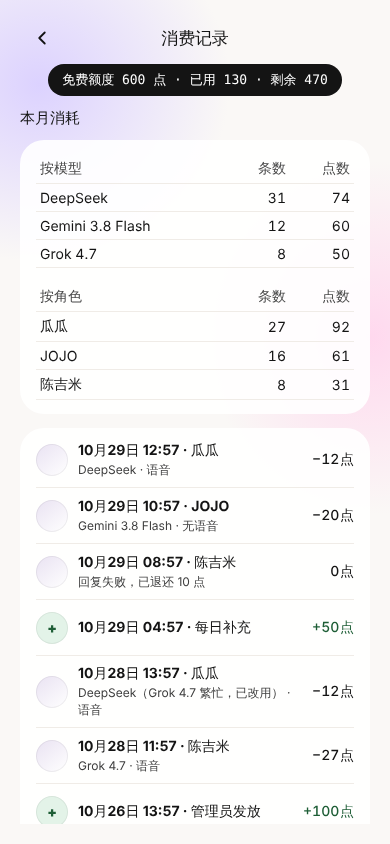
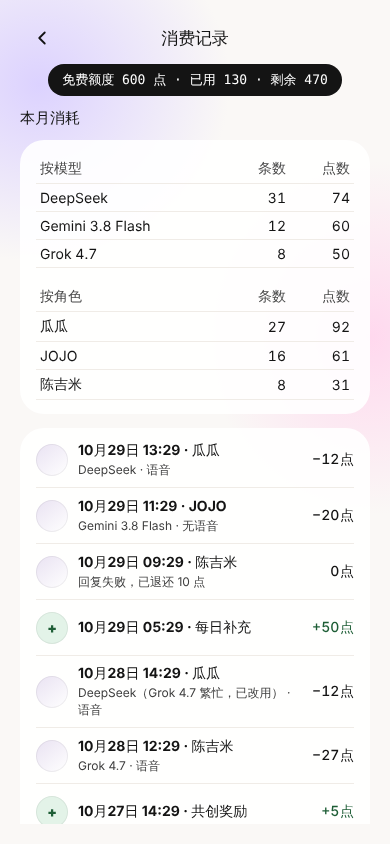
Part 25b fix: review screenshots after the 24c merge
Claude-Session: https://claude.ai/code/session_01Y7wsRjypAj1HJvvcZyGZZa

diff --git a/review/part-25b/tools/capture.ts b/review/part-25b/tools/capture.ts
@@ -278,8 +278,15 @@ if (only === 'billing' || only === 'guide') {
     await page.reload();
     await page.locator('.card-slot.is-active').waitFor();
     await page.waitForTimeout(900);
+    await page.route('**/cocreation/rewards', (route: any) => route.fulfill({ json: { notePoints: 5, dailyCap: 15, adoptPoints: 20 } }));
     await page.getByRole('button', { name: /阿泡/ }).first().click();
-    await page.waitForTimeout(700);
+    await page.waitForTimeout(900);
+    await page.screenshot({ path: join(out, `myinfo-earn-${scheme}-${w}.png`) });
+    await page.getByRole('button', { name: '获得点数' }).click();
+    await page.waitForTimeout(900);
+    await page.screenshot({ path: join(out, `earn-sheet-${scheme}-${w}.png`) });
+    await page.locator('.earn-sheet .acct-close').click();
+    await page.waitForTimeout(400);
     await page.getByRole('button', { name: '消费记录' }).click();
     await page.waitForSelector('.bl-row');
     await page.waitForTimeout(1000);

diff --git a/review/part-25b/tools/billing-data.ts b/review/part-25b/tools/billing-data.ts
@@ -26,6 +26,8 @@ export function billingFixture(now = Date.now()): BillingPage {
       { kind: 'daily_refill', at: now - 9 * H, points: 50 },
       { kind: 'reply', at: now - 1 * D, characterId: 'wei-guagua', model: 'deepseek', backupFor: 'xai', voice: true, points: 12, free: false },
       { kind: 'reply', at: now - 1 * D - 2 * H, characterId: 'chen-jimi', model: 'xai', voice: true, points: 27, free: false },
+      { kind: 'cocreation_note', at: now - 2 * D, points: 5 },
+      { kind: 'cocreation_adopted', at: now - 2 * D - H, points: 20 },
       { kind: 'grant', at: now - 3 * D, points: 100 },
       { kind: 'reply', at: now - 4 * D, characterId: 'jojo', model: 'deepseek', voice: false, points: 10, free: false },
       { kind: 'trial', at: now - 8 * D, characterId: 'jojo', model: 'deepseek' },

diff --git a/review/part-25b/README.md b/review/part-25b/README.md
@@ -41,3 +41,7 @@ bundle `tools/shared-entry.ts` with esbuild to `tools/shared-bundle.js` (iife) a
   answers `/billing/history` with it. They render (before, the fixture had nothing for that route and the page said 没能加载).
 - `guide-light-390.png`, `guide-dark-390.png`: the one-time ⋯ guide under the header, and "X已添加了你" waiting below it; both readable.
 - Escape in the model sheet closes only the sheet (test `player-ui-25b`).
+
+## Fix round 3 (after Part 24c merged)
+- `billing-*-390.png` re-taken with real billing data including 共创奖励 rows (`tools/billing-data.ts`), which now read as income (green + icon and amount, like 每日补充).
+- `myinfo-earn-*-390.png`: 我的信息 with 24c's 获得点数 button in the 25b colours; `earn-sheet-*-390.png`: the 获得点数 sheet, a small bottom sheet sized to its content (day and night).
